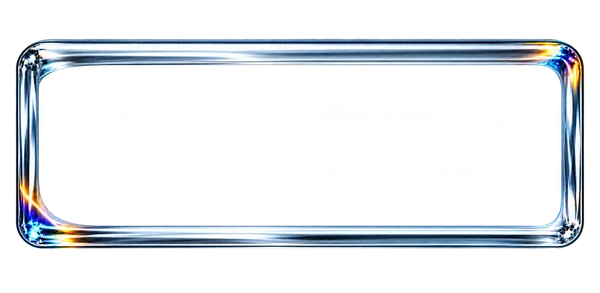
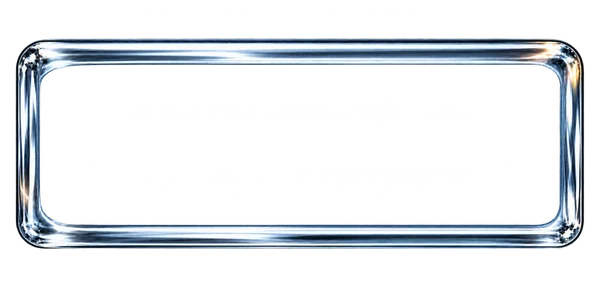
ui: smooth mobile glass button corners

Changed region(s): [[0.03, 0.1229, 0.99, 0.8601]]

diff --git a/docs/glass-mobile-corners-20261031.md b/docs/glass-mobile-corners-20261031.md
@@ -1,0 +1,14 @@
+# 모바일 유리 모서리 개선 후보
+
+2026-10-31. 사용자 S26 캡처에서 좌하단 반사·프리즘이 돌기처럼 보이는 문제를 확인했다. 프리즘 강조보다 맑은 표면·매끄러운 두께를 우선하기로 했다.
+
+- 브랜치: `codex/glass-mobile-corners-20261031`, 기준 `711cd73`. 사용자 확정 및 main 병합·Hosting 배포 승인 완료. 배포 결과는 별도 릴리스 기록에 남긴다.
+- 변경은 기존 3/4권한용 WebP 두 개다. 좌하단 삼각 반사·색 덩어리를 연속된 곡면으로 정리하고 포화된 프리즘을 낮췄다. CSS·크기·문구·표면 반사·접촉 그림자·권한 로직은 그대로다.
+- 내장 imagegen으로 4개용 수정 → 모바일 확인 → 3개용 소재 맞춤 → 확인을 수행했다. 짙은 반사선을 더 약하게 한 4개용 추가 후보는 실제 렌더링에서 중앙에 탁한 얼룩이 나타나 제외하고, 맑은 첫 후보를 채택했다.
+- 최종 원본: 3개 `exec-8eec0855-8d11-4c83-b8df-ded9ac4b904b.png`, 4개 `exec-3fa35323-2c43-4a18-b937-08769d0ca0d4.png`. 해상도 600×293/512×341과 alpha 유지. Sharp는 크기/형식 변환에만 사용했다.
+- 합계 용량 48,888→42,160B. 원본·기존 에셋·제외 후보 비교·생성 프롬프트·PNG·검사 로그는 ignored `output/glass-mobile-corners-20261031/`에 보관한다.
+- 검사: `brand-assets.test.ts` 5 PASS(기존 용량·투명도 기준 유지). 기존 S26 브라우저 사례 1 PASS: 360×780/DPR3에서 3/4권한 모두 소재 로드·글자·터치 영역·오버플로·접근성·모드 전환 확인. 360/1280px 전후 캡처도 확인했다.
+- Aside에서 로컬 화면을 열었으나 viewport 요청 후에도 실제 innerWidth가 1440으로 남아 캡처가 잘리는 현상을 확인했다. 이를 모바일 검증으로 계산하지 않는다. 모바일 근거는 Playwright 실제 360px viewport/DPR3이며, Aside에는 해당 비교 화면을 제공한다. 새 후보의 실제 S26 기기 확인은 아직 없다.
+- 후보 검증 단계에서는 관련 검사만 실행했다. 승인된 릴리스에서는 운영 build·PWA·성능·Hosting gate와 `presentation` CI를 적용한다. 기준 제품 `974f3b1`의 전체 CI 성공 이력을 확인해 누적 미검증 제품 변경이 없음을 대조한다.
+
+미리보기: `http://127.0.0.1:4332/?modes=4`(또는 3), 비교: `http://127.0.0.1:4332/comparison`.

diff --git a/docs/HANDOFF.md b/docs/HANDOFF.md
@@ -12,7 +12,7 @@
 
 ## 로컬 작업
 
-- 유리 버튼 최종안은 운영 반영됐다. [소재 연구·선택](glass-material-depth-20261031.md). 해당 작업의 미커밋 제품 변경은 없다.
+- 기존 유리 버튼 확정안은 운영 반영됐다. [소재 연구·선택](glass-material-depth-20261031.md). 추가 모바일 모서리 개선은 사용자 확정 및 main 병합·Hosting 배포 승인 완료. 에셋 2개만 수정했고 관련 단위 5개·S26 브라우저 1개 통과, 릴리스 준비 중이다. [현재 변경·검증 경계](glass-mobile-corners-20261031.md)
 - 재고 제조사 선택창의 사전 준비·인증 세션 메모리 캐시·60초 재조회 생략이 운영 반영됐다. 실제 운영 탭에서 연속 두 번 열어 목록 조회 총 1회, 저장 요청 0회를 확인했다. 해당 작업의 미커밋 제품 변경은 없다. [원인·캐시 계약·검증 경계](inventory-manufacturer-cache-20261031.md)
 
 ## 남은 작업
